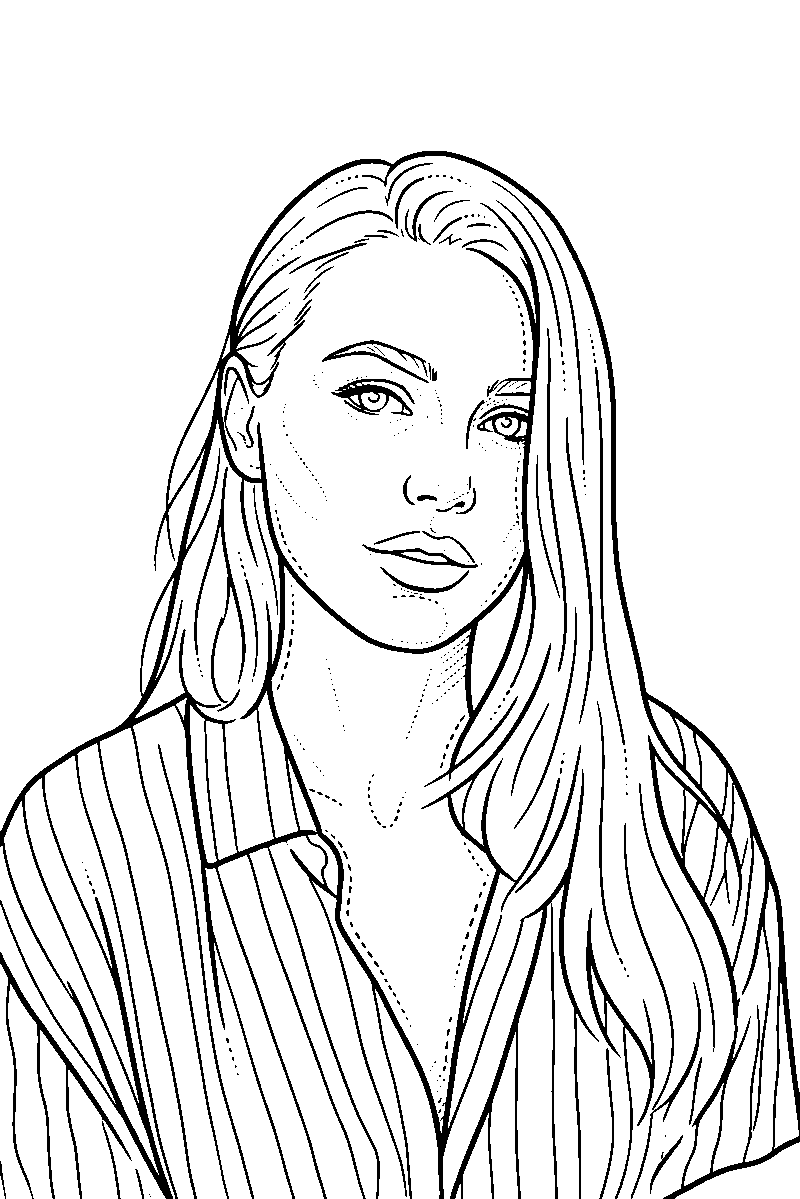
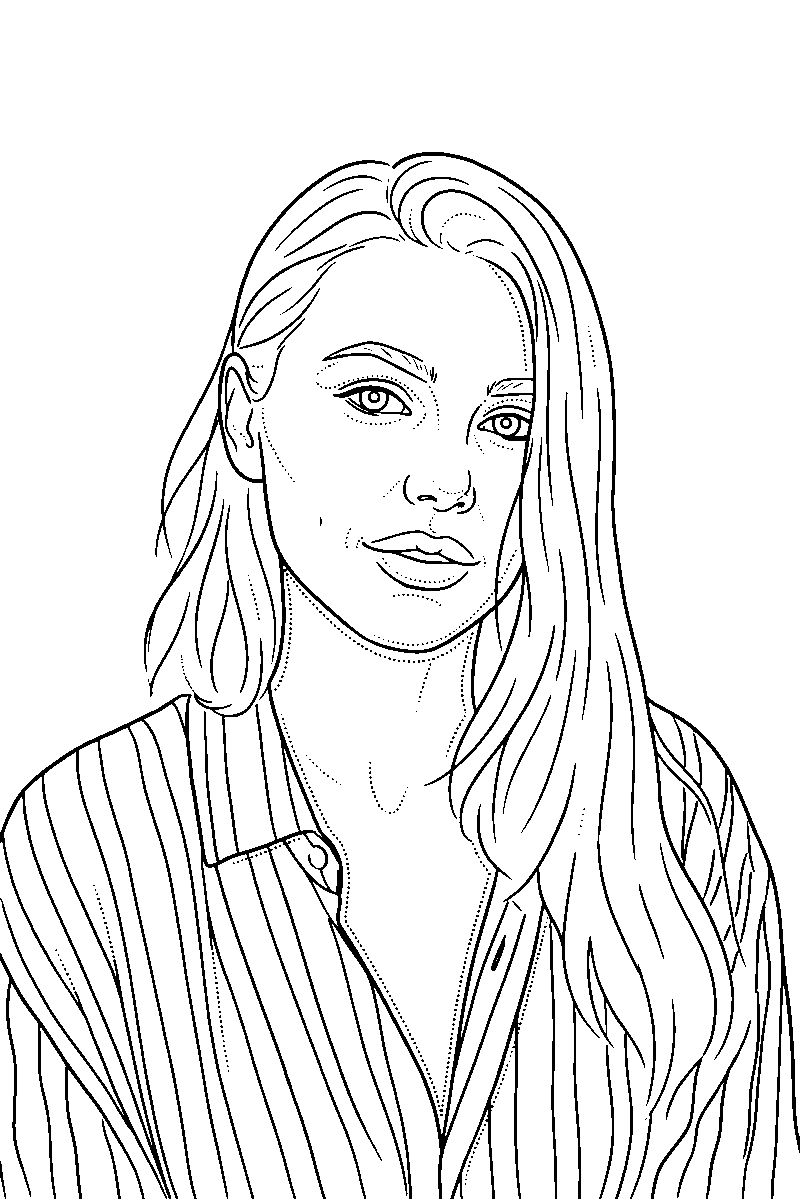
auto-commit for 01072358-bd93-49ac-ab31-8c15be3672e3

diff --git a/backend/scripts/generate_preview_stencils.py b/backend/scripts/generate_preview_stencils.py
@@ -1,0 +1,62 @@
+"""One-off script: regenerate the Medium + Heavy preview stencils
+against /app/backend/static/portrait.jpg using the current prompt in
+server.py, and write them back to static/ so /api/prompt-preview
+reflects the latest prompt output.
+
+Run: python3 /app/backend/scripts/generate_preview_stencils.py
+"""
+import asyncio
+import base64
+import os
+import sys
+import time
+
+import httpx
+
+BACKEND = "http://127.0.0.1:8001"
+PORTRAIT = "/app/backend/static/portrait.jpg"
+OUT = {
+    "medium": "/app/backend/static/stencil_medium.png",
+    "heavy": "/app/backend/static/stencil_heavy.png",
+}
+
+
+async def gen(client: httpx.AsyncClient, image_b64: str, style: str) -> None:
+    print(f"[{style}] requesting…", flush=True)
+    t0 = time.time()
+    r = await client.post(
+        f"{BACKEND}/api/ai-stencil",
+        json={
+            "image_base64": image_b64,
+            "line_color": "black",
+            "regenerate_style": style,
+        },
+        timeout=180.0,
+    )
+    r.raise_for_status()
+    data = r.json()
+    stencil_b64 = data["stencil_base64"]
+    if "," in stencil_b64:
+        stencil_b64 = stencil_b64.split(",", 1)[1]
+    with open(OUT[style], "wb") as f:
+        f.write(base64.b64decode(stencil_b64))
+    dt = time.time() - t0
+    print(f"[{style}] saved -> {OUT[style]}  ({dt:.1f}s, provider={data.get('provider')})", flush=True)
+
+
+async def main() -> None:
+    if not os.path.exists(PORTRAIT):
+        print(f"Missing reference: {PORTRAIT}", file=sys.stderr)
+        sys.exit(1)
+    with open(PORTRAIT, "rb") as f:
+        image_b64 = base64.b64encode(f.read()).decode()
+    async with httpx.AsyncClient() as client:
+        await asyncio.gather(
+            gen(client, image_b64, "medium"),
+            gen(client, image_b64, "heavy"),
+        )
+    print("Done.")
+
+
+if __name__ == "__main__":
+    asyncio.run(main())
